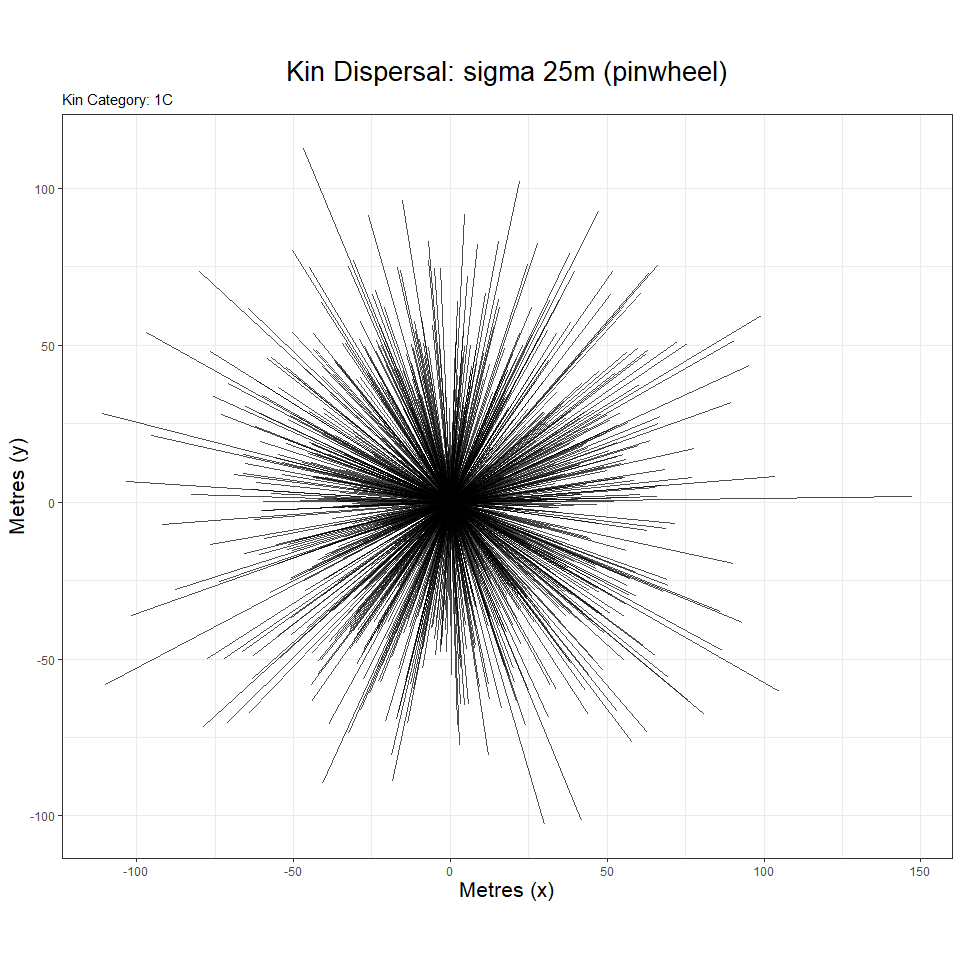
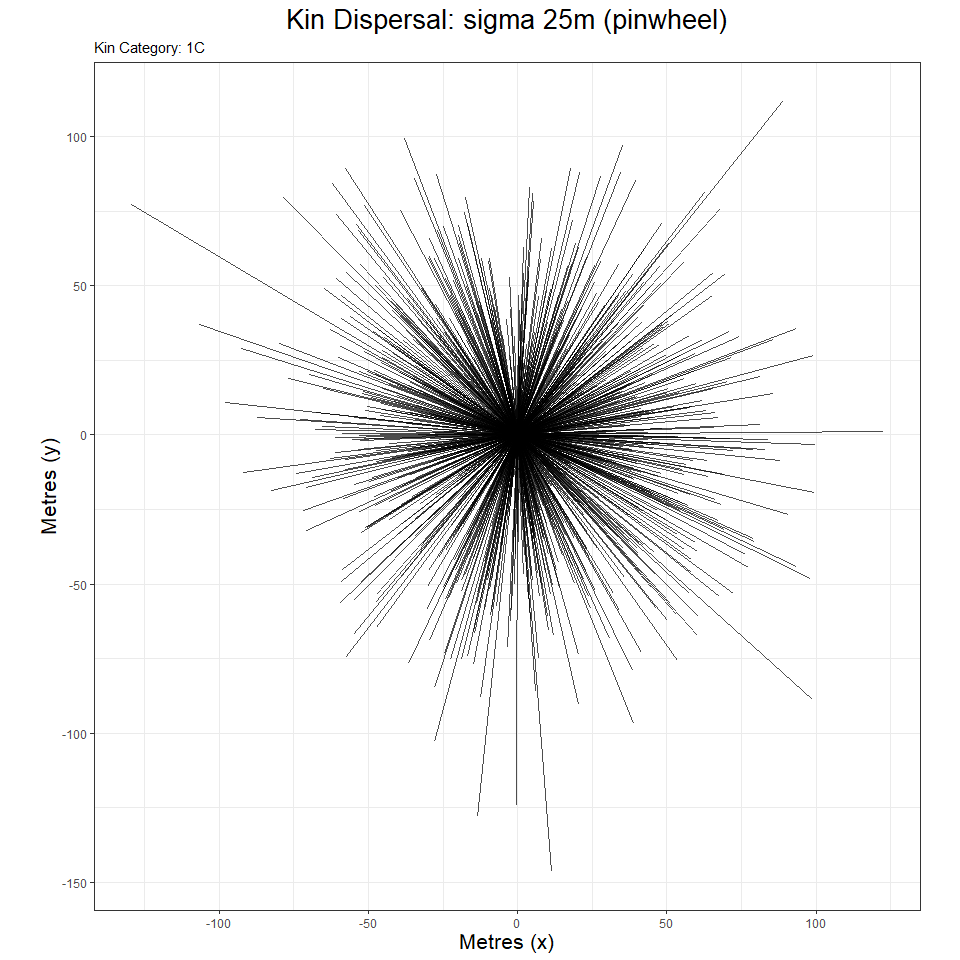
tweaks

diff --git a/README.md b/README.md
@@ -3,7 +3,7 @@
 
 # kindisperse
 
-v0.7.5 <!-- badges: start --> <!-- badges: end -->
+v0.7.6 <!-- badges: start --> <!-- badges: end -->
 
 The goal of kindisperse is to simulate and estimate close-kin dispersal
 kernels.
@@ -153,7 +153,7 @@ Once installed, load the package as follows:
 
 ``` r
 library(kindisperse)
-#> kindisperse 0.7.4
+#> kindisperse 0.7.6
 ```
 
 ## Simulations and Sampling
@@ -236,19 +236,19 @@ simulate_kindist_simple(nsims = 5, sigma = 100, method = "Gaussian", kinship = "
 #> simtype:      simple 
 #> kerneltype:       Gaussian 
 #> kinship:      PO 
-#> simdims:      100 
+#> simdims:      100 100 
 #> dsigma:           100 
 #> lifestage:        larva 
 #> 
 #> tab
 #> # A tibble: 5 x 8
-#>   id1   id2   kinship distance    x1    y1    x2     y2
-#>   <chr> <chr> <chr>      <dbl> <dbl> <dbl> <dbl>  <dbl>
-#> 1 1a    1b    PO         148.   10.1  80.7 111.   -28.2
-#> 2 2a    2b    PO         190.   47.7  66.1  79.5 -121. 
-#> 3 3a    3b    PO          29.3  36.9  85.7  16.6   64.6
-#> 4 4a    4b    PO          63.9  77.3  98.9  20.5   69.7
-#> 5 5a    5b    PO          61.5  40.9  26.8  95.7   54.7
+#>   id1   id2   kinship distance    x1    y1     x2    y2
+#>   <chr> <chr> <chr>      <dbl> <dbl> <dbl>  <dbl> <dbl>
+#> 1 1a    1b    PO         161.  81.2  76.7  -72.7   27.8
+#> 2 2a    2b    PO         163.  71.6  96.0   -3.96 241. 
+#> 3 3a    3b    PO         160.  14.7  12.8  -72.8  147. 
+#> 4 4a    4b    PO         203.  74.7   6.54 270.    58.6
+#> 5 5a    5b    PO          94.6  1.60 22.3   13.5  116. 
 #> -----------------------------------
 ```
 
@@ -285,7 +285,7 @@ simulate_kindist_composite(nsims = 5, initsigma = 50, breedsigma = 30, gravsigma
 #> simtype:      composite 
 #> kerneltype:       Laplace 
 #> kinship:      H1C 
-#> simdims:      100 
+#> simdims:      100 100 
 #> initsigma         50 
 #> breedsigma        30 
 #> gravsigma         50 
@@ -294,13 +294,13 @@ simulate_kindist_composite(nsims = 5, initsigma = 50, breedsigma = 30, gravsigma
 #> 
 #> tab
 #> # A tibble: 5 x 8
-#>   id1   id2   kinship distance    x1    y1      x2    y2
-#>   <chr> <chr> <chr>      <dbl> <dbl> <dbl>   <dbl> <dbl>
-#> 1 1a    1b    H1C        341.  -69.1 157.   261.    74.9
-#> 2 2a    2b    H1C         40.1 -16.1 101.   -18.2  141. 
-#> 3 3a    3b    H1C        126.  -49.0 221.  -152.   293. 
-#> 4 4a    4b    H1C        113.  317.   12.6  257.   -83.3
-#> 5 5a    5b    H1C        173.  -94.6 187.     7.87  47.3
+#>   id1   id2   kinship distance    x1    y1    x2     y2
+#>   <chr> <chr> <chr>      <dbl> <dbl> <dbl> <dbl>  <dbl>
+#> 1 1a    1b    H1C         484.  101.  210. -34.3 -255. 
+#> 2 2a    2b    H1C         184. -158.  203.  17.0  146. 
+#> 3 3a    3b    H1C         215. -232.  171. -57.9   45.2
+#> 4 4a    4b    H1C         207. -182.  130.  24.6  118. 
+#> 5 5a    5b    H1C         173. -227.  162. -54.3  149. 
 #> -----------------------------------
 ```
 
@@ -326,7 +326,7 @@ sample_kindist(compsim, upper = 1000, lower = 200, spacing = 50, n = 25)
 #> simtype:      composite 
 #> kerneltype:       Gaussian 
 #> kinship:      H2C 
-#> simdims:      100 
+#> simdims:      100 100 
 #> initsigma         100 
 #> breedsigma        50 
 #> gravsigma         50 
@@ -342,18 +342,18 @@ sample_kindist(compsim, upper = 1000, lower = 200, spacing = 50, n = 25)
 #> 
 #> tab
 #> # A tibble: 25 x 8
-#>    id1    id2    kinship distance     x1    y1       x2      y2
-#>    <chr>  <chr>  <chr>      <dbl>  <dbl> <dbl>    <dbl>   <dbl>
-#>  1 22290a 22290b H2C          575 -235.   17.2  360.      57.7 
-#>  2 30998a 30998b H2C          325  -17.5  34.5  -72.4    352.  
-#>  3 19654a 19654b H2C          375  -18.2 -95.1  329.    -277.  
-#>  4 28613a 28613b H2C          375  103.  115.  -282.     220.  
-#>  5 93870a 93870b H2C          225  -50.5  49.6  105.    -121.  
-#>  6 30332a 30332b H2C          225  209.  -79.7  122.     147.  
-#>  7 40550a 40550b H2C          475  340.  216.  -153.     129.  
-#>  8 81656a 81656b H2C          425 -328.  273.    20.1     -7.16
-#>  9 98520a 98520b H2C          375  -68.0 113.    -0.789 -265.  
-#> 10 43467a 43467b H2C          325  130.  183.     5.97  -103.  
+#>    id1    id2    kinship distance       x1      y1     x2    y2
+#>    <chr>  <chr>  <chr>      <dbl>    <dbl>   <dbl>  <dbl> <dbl>
+#>  1 27096a 27096b H2C          425 -177.     142.    230.  154. 
+#>  2 93261a 93261b H2C          375   -0.968 -117.   -163.  203. 
+#>  3 80404a 80404b H2C          525 -232.     303.    230.  103. 
+#>  4 21579a 21579b H2C          275   24.7    191.   -243.  314. 
+#>  5 60714a 60714b H2C          325  104.      44.5   363.  208. 
+#>  6 31753a 31753b H2C          275   54.8   -106.     41.7 191. 
+#>  7 77487a 77487b H2C          475  225.    -257.    137.  232. 
+#>  8 91248a 91248b H2C          525  -42.7      2.52  436.  253. 
+#>  9 68064a 68064b H2C          225  333.      99.8   179.  -41.9
+#> 10 79395a 79395b H2C          475  141.     419.    140.  -62.6
 #> # ... with 15 more rows
 #> -----------------------------------
 ```
@@ -448,13 +448,13 @@ of three draws from the PO distribution, and thus would take
 ``` r
 paroff <- simulate_kindist_simple(nsims = 1000, sigma = 75, kinship = "PO")
 axials(paroff)
-#> [1] 75.82567
+#> [1] 75.26307
 ```
 
 ``` r
 fullsibs <- simulate_kindist_composite(nsims = 10000, ovisigma = 25, kinship = "FS")
 axials(fullsibs, composite = 2)
-#> [1] 24.79196
+#> [1] 25.11468
 ```
 
 Various auxillary functions exist to further manipulate axial distances
@@ -536,8 +536,8 @@ fullcous <- simulate_kindist_composite(nsims = 75, initsigma = init, breedsigma 
 # calculate PO axial sigma C.I. 
 
 axpermute_standard(fullcous, fullsibs)
-#>     2.5%      50%    97.5% 
-#> 77.21029 87.75758 99.53078
+#>      2.5%       50%     97.5% 
+#>  90.95004 102.51661 114.95927
 ```
 
 As we can see, the C.I. neatly brackets the actual axial value, though
@@ -566,18 +566,18 @@ cousins
 #> 
 #> tab
 #> # A tibble: 150 x 9
-#>    id1   id2   kinship distance     x1     y1     x2     y2 lifestage
-#>    <chr> <chr> <chr>      <dbl>  <dbl>  <dbl>  <dbl>  <dbl> <chr>    
-#>  1 1a    1b    UN         244.   77.5   173.  -58.5   -30.1 larva    
-#>  2 2a    2b    UN         116.   44.2    68.2   8.52  -42.5 larva    
-#>  3 3a    3b    UN         143.   99.0   -49.9  -5.68   46.9 larva    
-#>  4 4a    4b    UN         176.   56.7   -94.2  62.9    81.9 larva    
-#>  5 5a    5b    UN          43.1 213.    120.  170.    116.  larva    
-#>  6 6a    6b    UN         121.   53.4   133.  -67.6   139.  larva    
-#>  7 7a    7b    UN         132.   46.5  -101.   90.7    23.0 larva    
-#>  8 8a    8b    UN         263.  -87.6    44.4  63.7  -170.  larva    
-#>  9 9a    9b    UN          85.4  -5.16   96.3 -80.1   137.  larva    
-#> 10 10a   10b   UN          46.3 181.     45.6 223.     63.8 larva    
+#>    id1   id2   kinship distance      x1     y1     x2     y2 lifestage
+#>    <chr> <chr> <chr>      <dbl>   <dbl>  <dbl>  <dbl>  <dbl> <chr>    
+#>  1 1a    1b    UN         277.   182.    53.9   -83.6 134.   larva    
+#>  2 2a    2b    UN         128.   160.    -7.80   39.3  35.5  larva    
+#>  3 3a    3b    UN         272.   125.   229.     37.3 -27.6  larva    
+#>  4 4a    4b    UN         213.    -1.13 167.   -107.  -18.7  larva    
+#>  5 5a    5b    UN         125.    62.5   66.6   150.  -23.5  larva    
+#>  6 6a    6b    UN         187.    85.4  -32.9    99.0 154.   larva    
+#>  7 7a    7b    UN          56.2  223.   -13.0   216.   42.8  larva    
+#>  8 8a    8b    UN         201.    18.8  132.    170.   -1.35 larva    
+#>  9 9a    9b    UN         390.  -116.   214.    235.   42.8  larva    
+#> 10 10a   10b   UN          77.1  204.    26.0   179.   99.2  larva    
 #> # ... with 140 more rows
 #> -------------------------------
 ```
@@ -592,8 +592,8 @@ missing category data:
 # bcomp allows supply of distribution to composite with bvect (this is done to match 
 # the cousin mixture in phase)
 axpermute_standard(avect = cousins, acat = "1C", amix = TRUE, amixcat = "H1C", bvect = fullsibs, bcomp = TRUE, bcompvect = halfsibs)
-#>     2.5%      50%    97.5% 
-#> 65.82374 80.23677 92.66320
+#>      2.5%       50%     97.5% 
+#>  87.38129  98.87126 109.52199
 ```
 
 This estimate is a lot more convoluted, and not as ‘spot on’- but the
